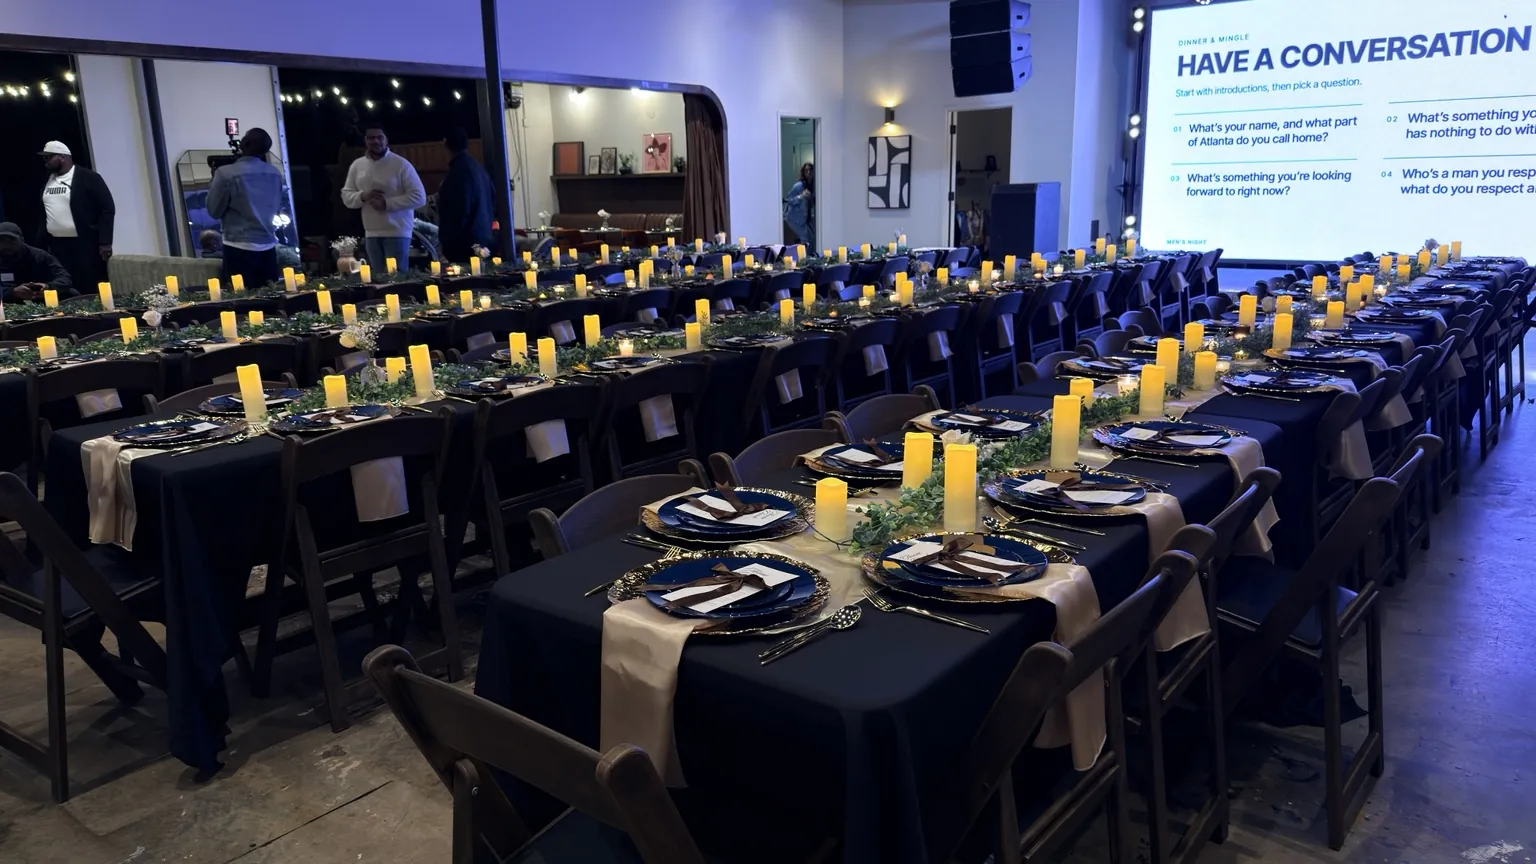
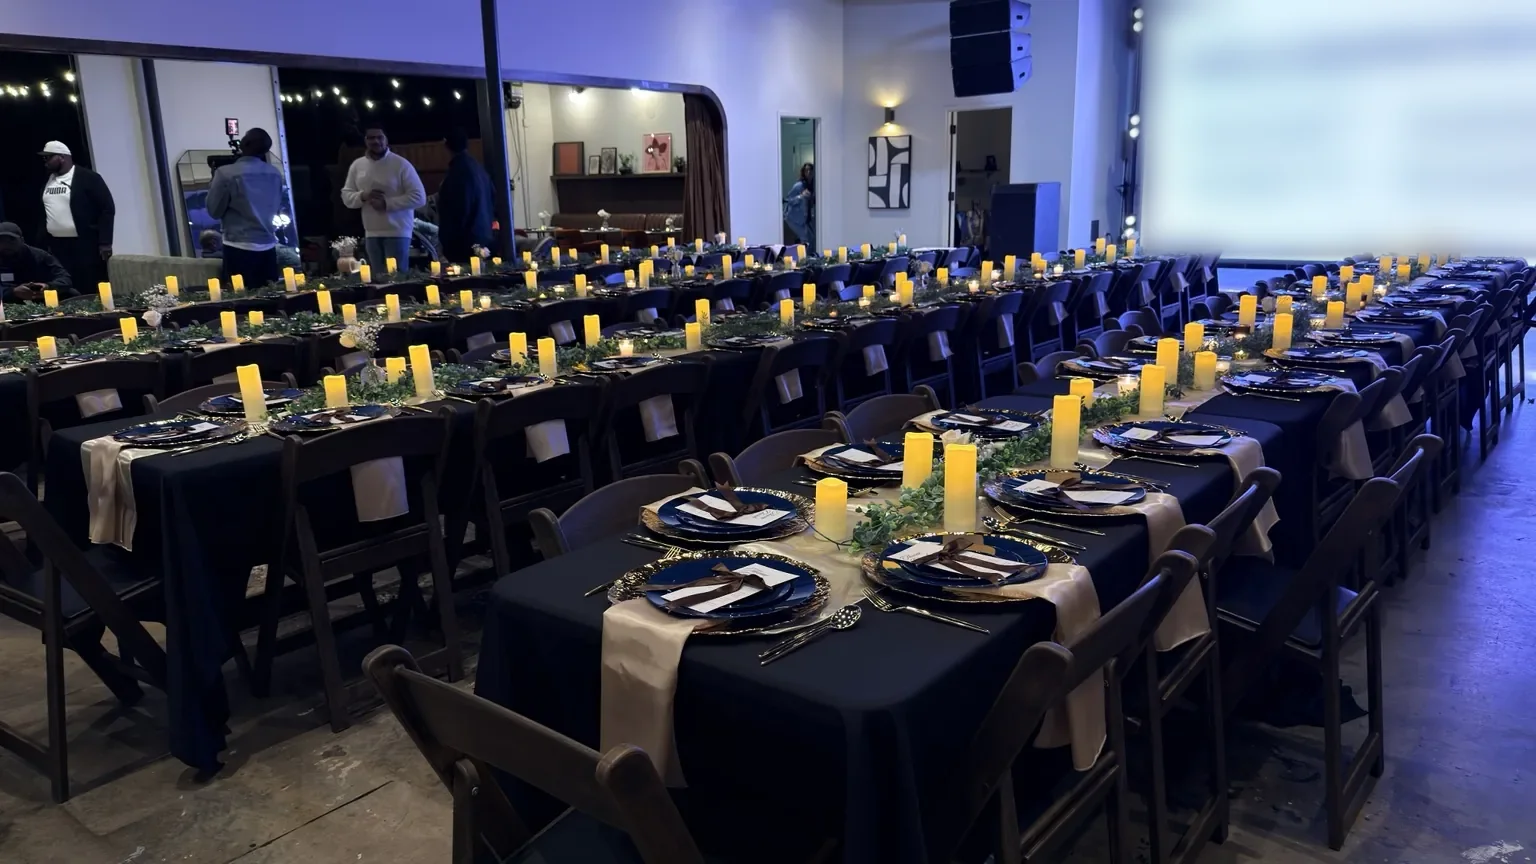
Remove client names, dates and host branding from photos; publish legal pages
Photos (MMG request, 2026-11-08):
- Game night: the sign's age, client first name and party date inpainted;
  house numbers blurred. "GAME Night" theme lettering kept.
- She Rose table sign: client brand name inpainted (blank acrylic).
- Celebration detail: the author's book (photo and name) blurred.
- Ministry backdrop: ministry name inpainted from the panel (both views).
- Roswell hall and tables: the host's program slide blurred (it carried the
  church logo and event name).

Content:
- Social House credited on the Roswell project; titles use the city.
- Privacy Policy and Terms approved for publication: indexed, in sitemap.

Claude-Session: https://claude.ai/code/session_01R1Jqj7hcsSKKjPVykqXQPo

Changed region(s): [[0.7188, 0.0, 1.0, 0.3125]]

diff --git a/src/content/portfolio.ts b/src/content/portfolio.ts
@@ -23,15 +23,17 @@ export type PortfolioProject = {
 };
 // Authentic Radiant photographs. Descriptions cover visible design; no invented
 // clients, venues, or outcomes. The Roswell project was approved for
-// publication by MMG on 2026-11-08 (Radiant designed the full room; the host
-// organization is intentionally not named).
+// publication by MMG on 2026-11-08 (Radiant designed the full room; the venue
+// may be credited, the host organization is intentionally not named).
+// Client names, dates, ages, addresses and host branding are removed from all
+// photos before publishing (signs inpainted, slides and book covers blurred).
 export const portfolioProjects: PortfolioProject[] = [
   {
     slug: "candlelight-and-conversation",
     title: "Candlelight & Conversation",
     category: "Tablescapes + Room Styling",
     occasion: "Men's evening event",
-    location: "Roswell, Georgia",
+    location: "Social House, Roswell, Georgia",
     headline: ["A neutral hall,", "transformed by candlelight."],
     image: "/images/candlelight-hall.webp",
     alt: "Rows of long banquet tables dressed in black linen and lit by candles in an event hall",
@@ -41,7 +43,7 @@ export const portfolioProjects: PortfolioProject[] = [
       { src: "/images/candlelight-detail.webp", alt: "Navy plates on gold chargers with ribbon-tied napkins, tan runners and greenery" },
     ],
     overview:
-      "An evening built around conversation. Radiant styled a blank-canvas event hall in historic downtown Roswell into long, candlelit banquet tables meant for lingering.",
+      "An evening built around conversation. Radiant styled Social House, a blank-canvas event hall in historic downtown Roswell, into long, candlelit banquet tables meant for lingering.",
     challenge:
       "Seat a full room at long communal tables while keeping the setting warm, intimate and conversation-ready.",
     designDirection:

diff --git a/src/app/portfolio/[slug]/page.tsx b/src/app/portfolio/[slug]/page.tsx
@@ -21,7 +21,9 @@ export async function generateMetadata({
   const { slug } = await params;
   const p = getProjectBySlug(slug);
   if (!p) return {};
-  const where = p.location ? ` in ${p.location.split(",")[0]}` : "";
+  // "Venue, City, State" → "City" for the title.
+  const parts = p.location?.split(",").map((x) => x.trim()) ?? [];
+  const where = parts.length ? ` in ${parts[Math.max(0, parts.length - 2)]}` : "";
   const meta = pageMetadata(`${p.title}: ${p.category}${where}`, p.overview, "/portfolio/" + slug, p.image);
   // The portfolio layout sets its own title, which resets the root template.
   return { ...meta, title: { absolute: `${meta.title} | Radiant Events Planning` } };

diff --git a/src/app/privacy/page.tsx b/src/app/privacy/page.tsx
@@ -5,9 +5,6 @@ export const metadata: Metadata = {
   description:
     "How Radiant Events Planning handles your inquiry information and contact details through our private inquiry form and email.",
   alternates: { canonical: "/privacy" },
-  // Draft legal copy: keep out of search until the owner (and ideally counsel)
-  // approves it. Remove `robots` and re-add the route to sitemap.ts after sign-off.
-  robots: { index: false, follow: true },
 };
 export default function Privacy() {
   return (

diff --git a/src/app/terms/page.tsx b/src/app/terms/page.tsx
@@ -4,9 +4,6 @@ export const metadata: Metadata = {
   description:
     "Understand Radiant Events Planning website information, custom proposals, booking agreements, and payment responsibilities.",
   alternates: { canonical: "/terms" },
-  // Draft legal copy: keep out of search until the owner (and ideally counsel)
-  // approves it. Remove `robots` and re-add the route to sitemap.ts after sign-off.
-  robots: { index: false, follow: true },
 };
 export default function Terms() {
   return (

diff --git a/src/app/sitemap.ts b/src/app/sitemap.ts
@@ -19,7 +19,8 @@ export default function sitemap(): MetadataRoute.Sitemap {
     "/investment",
     "/faq",
     "/client-guide",
-    // /privacy and /terms are noindex drafts until the owner approves them.
+    "/privacy",
+    "/terms",
   ];
 
   const dynamicRoutes = [

diff --git a/CONTENT_NEEDED.md b/CONTENT_NEEDED.md
@@ -7,15 +7,15 @@ or worded generally until confirmed.
 - [ ] **Reply window.** The site promises a personal reply "usually within 12 to 24 hours"
       (homepage, contact page, confirmation email). Confirm, or give the window to use.
 - [ ] **Budget ranges** in the inquiry form (currently Under $500 … $5,000+, Need guidance).
-- [ ] **Privacy Policy and Terms.** Both are `noindex` drafts and excluded from the sitemap
-      until Rickya (and ideally counsel) approve them.
+- [x] **Privacy Policy and Terms.** Approved for publication by MMG on 2026-11-08; indexed
+      and in the sitemap.
 - [ ] **Portfolio filters by event type.** Filters are by service today. Event types are
       verified for three projects (men's evening event, church ministry backdrop, birthday
       game night) but not for "A Moment in Pink".
-- [ ] **Venue naming.** The Roswell project says "historic downtown Roswell" but does not
-      name the venue. Confirm if Social House may be credited.
-- [ ] **Game night sign.** A portfolio photo shows a client's first name and party date on
-      the welcome sign. Confirm that is fine to publish, or we can crop it out.
+- [x] **Venue naming.** Social House is credited on the Roswell project (MMG, 2026-11-08).
+- [x] **Client details in photos.** Names, ages, dates, house numbers and host branding were
+      removed from every published photo (MMG request, 2026-11-08). Re-check any new photo
+      for signs, slides, book covers and addresses before adding it.
 
 ## Content to supply
 - [ ] Testimonials (real, attributable, with permission). Hidden until supplied.
